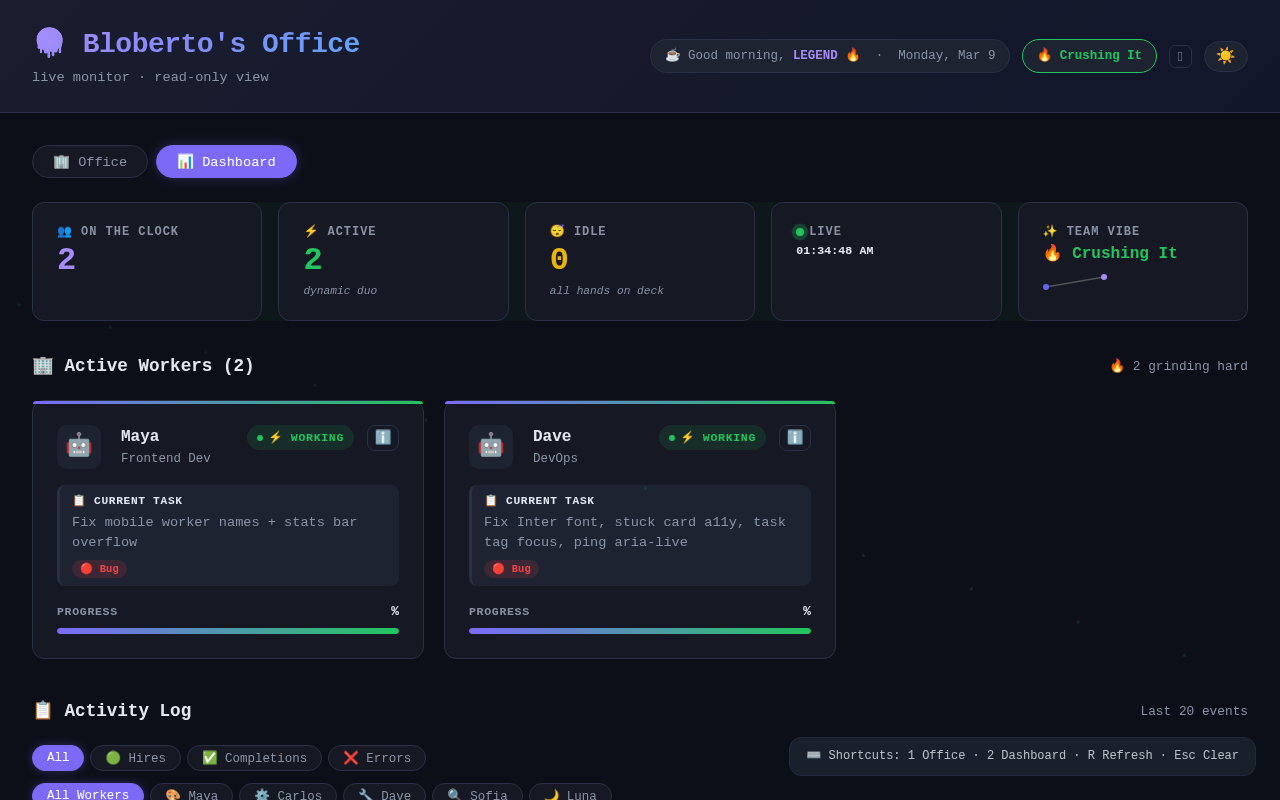
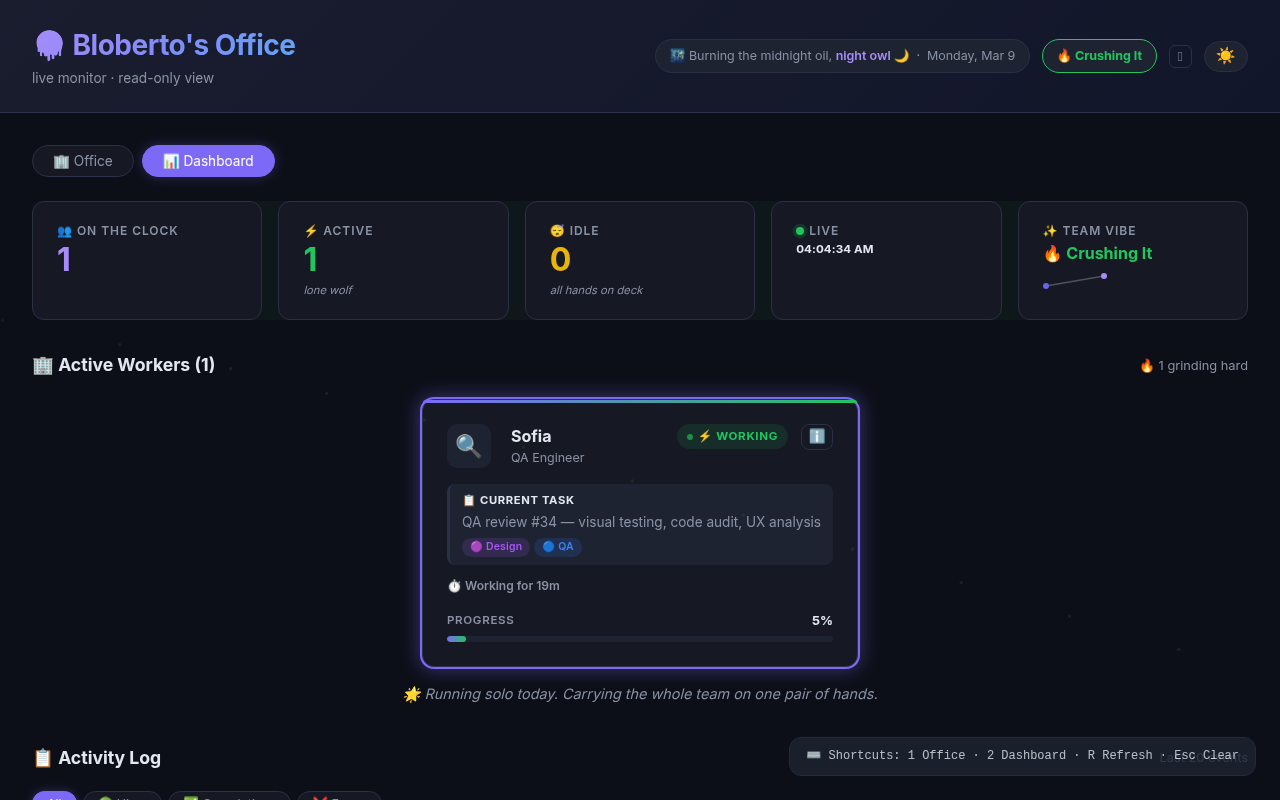
🔍 Sofia clocked in — QA review cycle

diff --git a/src/App.jsx b/src/App.jsx
@@ -395,7 +395,7 @@ function DeltaBadge({ delta }) {
   )
 }
 
-function StatsBar({ workers, vibe, lastSynced, isLive, vibeHistory }) {
+function StatsBar({ workers, vibe, lastSynced, isLive, vibeHistory, pollingPaused, onResume }) {
   const total = workers.length
   const active = workers.filter((w) => w.status === 'working').length
   const idle = workers.filter((w) => w.status === 'idle').length
@@ -441,10 +441,10 @@ function StatsBar({ workers, vibe, lastSynced, isLive, vibeHistory }) {
         <span className="stat-dispatch">{getDispatch(STAT_DISPATCHES.idle, idle)}</span>
         <DeltaBadge delta={idleDelta} />
       </div>
-      <div className="stat-card sync-status">
+      <div className={`stat-card sync-status${pollingPaused ? ' sync-status--paused' : ''}`} onClick={pollingPaused ? onResume : undefined} title={pollingPaused ? 'Click to resume auto-refresh' : undefined}>
         <span className="stat-label">
-          <span className={`live-dot ${isLive ? 'live' : 'offline'}`} />
-          {isLive ? 'Live' : 'Offline'}
+          <span className={`live-dot ${pollingPaused ? 'paused' : isLive ? 'live' : 'offline'}`} />
+          {pollingPaused ? 'PAUSED' : isLive ? 'Live' : 'Offline'}
         </span>
         <span className="stat-value sync-time">{syncLabel}</span>
       </div>
@@ -1164,7 +1164,7 @@ export default function App() {
           </div>
         ) : (
           <div role="tabpanel" id="tabpanel-dashboard" aria-labelledby="tab-dashboard">
-            <StatsBar workers={activeWorkers} vibe={teamVibe} lastSynced={lastSynced} isLive={isLive} vibeHistory={vibeHistory} />
+            <StatsBar workers={activeWorkers} vibe={teamVibe} lastSynced={lastSynced} isLive={isLive} vibeHistory={vibeHistory} pollingPaused={pollingPaused} onResume={() => setPollingPaused(false)} />
 
             <div className="section-header">
               <div className="section-title">🏢 Active Workers ({activeWorkers.length})</div>

diff --git a/src/Office.css b/src/Office.css
@@ -1909,12 +1909,27 @@
   position: absolute;
   right: 3%;
   bottom: 26%;
-  font-size: 1.1rem;
+  display: flex;
+  flex-direction: column;
+  align-items: center;
+  gap: 0.15em;
   pointer-events: none;
   z-index: 1;
   opacity: 0.78;
   filter: drop-shadow(0 0 4px rgba(255,255,255,0.2));
   transition: opacity 0.6s ease;
+}
+.vibe-weather__icon {
+  font-size: 1.1rem;
+  line-height: 1;
+}
+.vibe-weather__label {
+  font-size: 0.7rem;
+  color: var(--text-muted, rgba(255,255,255,0.45));
+  letter-spacing: 0.01em;
+  white-space: nowrap;
+  text-align: center;
+  font-style: italic;
 }
 .vibe-weather--on-fire {
   animation: wx-urgent 1.4s ease-in-out infinite;
@@ -2343,6 +2358,12 @@
   }
   .vibe-weather {
     font-size: 0.6rem;
+  }
+  .vibe-weather__icon {
+    font-size: 0.6rem;
+  }
+  .vibe-weather__label {
+    font-size: 0.5rem;
   }
   .coffee-corner__label,
   .office-door__label {

diff --git a/src/Office.jsx b/src/Office.jsx
@@ -1481,11 +1481,10 @@ export default function Office({ workers = [], roster = [], isSyncing = false, a
         </div>
         <div
           className={`vibe-weather vibe-weather--${vibe}`}
-          role="img"
-          title={VIBE_WEATHER_LABELS[vibe] || vibe}
           aria-label={VIBE_WEATHER_LABELS[vibe] || vibe}
         >
-          {VIBE_WEATHER_ICONS[vibe]}
+          <span className="vibe-weather__icon" aria-hidden="true">{VIBE_WEATHER_ICONS[vibe]}</span>
+          <span className="vibe-weather__label">{VIBE_WEATHER_LABELS[vibe]}</span>
         </div>
         <div className="office-plant office-plant--cactus" style={{ left: '92%', top: '30%' }}>
           <svg width="18" height="28" viewBox="0 0 18 28" xmlns="http://www.w3.org/2000/svg" aria-hidden="true">

diff --git a/src/App.css b/src/App.css
@@ -660,6 +660,18 @@
   background: #ef4444;
 }
 
+.live-dot.paused {
+  background: #f59e0b;
+}
+
+.sync-status--paused {
+  cursor: pointer;
+  opacity: 0.85;
+}
+.sync-status--paused:hover {
+  opacity: 1;
+}
+
 @keyframes pulse-live {
   0%, 100% { box-shadow: 0 0 0 0 rgba(34, 197, 94, 0.6); }
   50%       { box-shadow: 0 0 0 6px rgba(34, 197, 94, 0); }
@@ -1100,6 +1112,7 @@
 .shortcut-toast--fading-out { opacity: 0; }
 
 @media (pointer: coarse) { .shortcut-toast { display: none !important; } }
+@media (max-width: 640px) { .shortcut-toast { display: none !important; } }
 
 /* === Mobile Header Fix (Luna Review #41) === */
 @media (max-width: 480px) {
